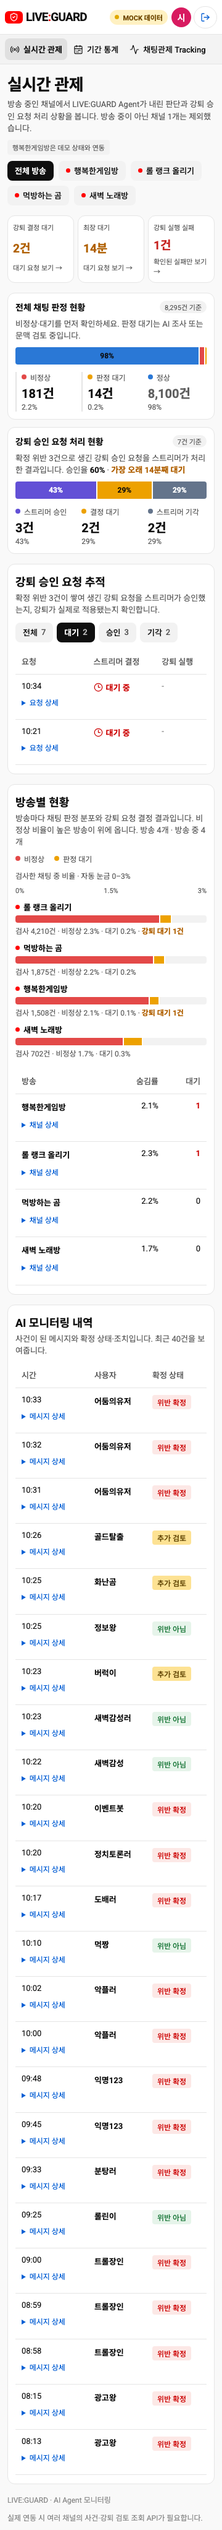
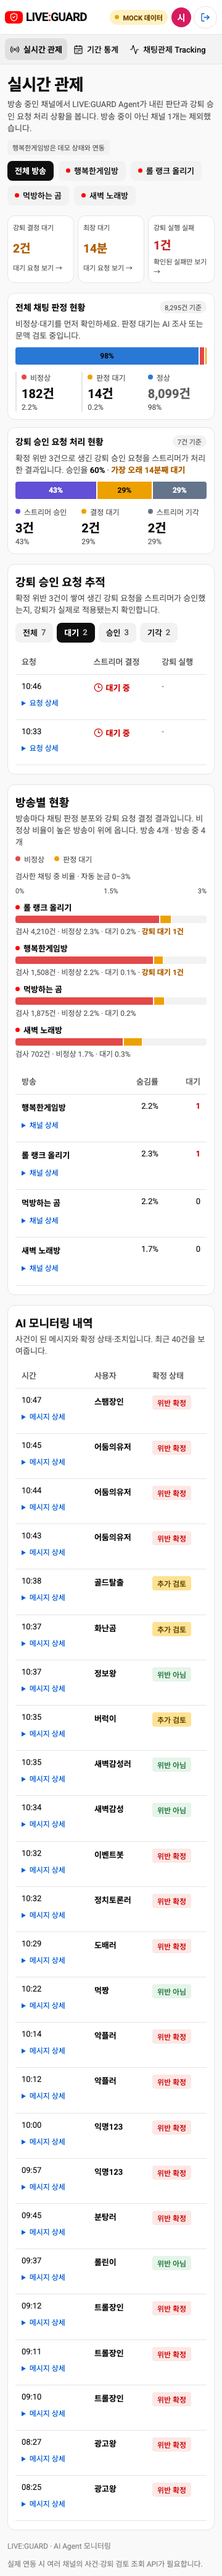
PR 검토용 변경 배경·구현 보고서와 UI 캡처 11장 보강

diff --git a/docs/dashboard-review.md b/docs/dashboard-review.md
@@ -1,17 +1,49 @@
-# 대시보드 UI·성능 개선 (#43–#46)
+# 관제 대시보드 UI·성능 개선 보고서 (#43–#46)
 
-## 변경
+## 배경과 목적
 
-- #43: SSE 이벤트를 80ms 단위로 모으고, 진행 중 조회가 있으면 후속 조회로 합친다. CHAT은 메시지만 조회하고 TOOL_START/TOOL_END는 이벤트 로그만 갱신한다. 메시지 비공개 전환은 조회 전에 즉시 반영하며 세션·방송 변경 시 오래된 응답을 무시한다.
-- #44: 실시간 관제 상단에 강퇴 결정 대기·최장 대기·확인된 강퇴 실행 실패를 표시한다. 클릭하면 요청 표로 초점을 이동하고 필터를 적용한다. 비정상·판정 대기 수치는 정상보다 앞에 표시한다. API 미연동 상태에서는 숫자 대신 대시와 연동 안내를 표시한다.
-- #45: 기간 통계 설명을 줄이고 판정 정의는 펼침 도움말로 제공한다. 모바일 강퇴 요청 표는 시간·결정·실행을 우선 표시하고 나머지는 요청 상세에서 제공한다. 방송 목록도 추가 수치를 방송 상세에서 볼 수 있다. 실시간 방송별 표와 AI 내역 표도 핵심 열을 먼저 표시하고 채널·메시지 상세로 나머지를 제공한다.
-- #46: 방송별 막대에 0·중간·최댓값 눈금과 검사 건수를 추가한다. 선 그래프와 막대에는 자동 눈금임을 명시한다. 기간에 따라 눈금이 바뀌며 고정 눈금 옵션은 추가하지 않았다. 표 보기·키보드 툴팁·방송 없는 날 선 끊김은 유지한다.
+기존 시스템 운영자 화면은 채팅 판정 분포, 강퇴 승인 요청 표, 방송별 현황, AI 내역을 순서대로 보여줬다. 전체 상태를 보고하는 데는 적합했지만, 운영자가 지금 확인해야 할 요청을 찾으려면 여러 영역을 살펴야 했다. 정상 비율이 약 98%인 예시에서는 큰 파란 막대가 가장 먼저 보였고, 비정상·판정 대기 수치는 정상과 같은 강조 수준이었다.
 
-## 요청 수 비교
+별도로 실제 API 화면을 확인하면서, 채팅·관제 SSE 이벤트마다 메시지·검토·사건 전체를 재조회하는 구조를 발견했다. 이 부분은 **스트리머·시청자 API 연결을 담당하는 `LiveConsole.vue`**의 변경이다. 시스템 운영자 집계 API를 새로 구현한 작업은 아니다.
 
-같은 테스트 fixture에서 채팅 이벤트 20개를 전송하고, 첫 메시지 조회가 시작된 후 20개를 추가 전송했다. 메시지 응답은 180ms 지연시켰다. 그 뒤 TOOL_START/TOOL_END 각 20개를 전송했다.
+이번 변경은 아래 네 이슈에 대응한다. 기존 기간 통계 PR #42는 main에 머지된 상태이며, 이번 브랜치에도 최신 main을 합쳤다.
 
-| 관측 | 변경 전 HEAD | 변경 후 |
+| 이슈 | 문제 | 변경 후 사용자가 얻는 것 |
+| --- | --- | --- |
+| #43 | 연속 이벤트마다 중복 HTTP 조회 | 요청을 모아 처리하면서 최신 채팅과 상태를 표시 |
+| #44 | 대기·실패를 여러 표에서 찾아야 함 | 첫 화면 요약에서 관련 요청 목록으로 바로 이동 |
+| #45 | 모바일 설명 반복과 넓은 표 | 요약 정보를 먼저 읽고 필요한 행만 펼쳐 상세 확인 |
+| #46 | 비율의 표본 규모와 자동 눈금 변화가 덜 드러남 | 검사 건수와 눈금을 보고 비율·길이를 해석 |
+
+## 1. 실시간 조회: 무엇을 왜 어떻게 바꿨는가
+
+### 변경 전
+
+`LiveConsole.vue`의 이벤트 핸들러가 `refresh()`를 호출했다. 운영자 기준 refresh 한 번에 세션 확인 1회, 메시지 1회, 문맥 검토 1회, 강퇴 검토 1회, 사건 1회로 기본 5개 요청이 발생했다. `TOOL_START`와 `TOOL_END`도 같은 목록 조회를 수행했다.
+
+이전 응답을 무시하는 순번 검사는 있었지만, 이미 시작한 요청 수를 줄여 주지는 않았다. 연속 이벤트가 오면 사용하지 않을 응답까지 서버와 브라우저가 처리해야 했다.
+
+### 변경 후
+
+- 이벤트는 80ms 동안 모아 조회한다. 80ms는 짧은 연속 이벤트를 합치기 위한 대기 시간이며 실측으로 도출한 최적값은 아니다.
+- 진행 중 조회는 하나만 유지한다. 그동안 추가된 갱신 요구는 메시지·관제 플래그로 합쳐 현재 조회가 끝나면 후속 조회한다. 이벤트 하나마다 후속 요청을 따로 예약하지 않는다.
+- `CHAT`은 세션 확인과 메시지 조회만 수행한다. 검토·사건은 채팅 이벤트 때문에 다시 읽지 않는다.
+- `TOOL_START`·`TOOL_END`는 받은 이벤트를 로그에 기록하고 목록 API를 호출하지 않는다.
+- 그 밖의 상태 변경 이벤트는 기존과 같이 필요한 전체 상태를 확인한다.
+
+```text
+변경 전: 이벤트마다 세션 → 메시지 + 문맥 검토 + 강퇴 검토 + 사건
+변경 후: 이벤트 묶음 → 진행 중 조회 확인 → 필요한 목록만 조회
+                               └ 진행 중이면 다음 조회에 요구를 합침
+```
+
+숨김 메시지의 즉시 제거는 80ms 묶음 처리를 기다리지 않는다. 세션·방송 변경 시 오래된 응답을 무시하는 검사, 강퇴·방송 종료 처리, 주기적인 5초 복구 조회도 유지한다. 사용자 변경을 감지한 후 재로딩을 기다리는 경로는 조회 큐와 서로 기다리지 않도록 조정했다. 이미 전송한 HTTP 요청을 취소하는 방식은 아니다.
+
+### 요청 수 비교와 해석
+
+같은 브라우저 테스트 fixture에서 채팅 이벤트 20개를 보낸 후 첫 메시지 조회가 시작되면 20개를 추가했다. 메시지 응답에는 180ms 지연을 넣었다. 이어 `TOOL_START`·`TOOL_END` 각각 20개를 보냈다. 변경 전 기준은 구현 시작 시점 커밋 `fd7ba65`의 `LiveConsole.vue`이며 임시 복사본에서 실행했다.
+
+| 관측한 요청 | 변경 전 | 변경 후 |
 | --- | ---: | ---: |
 | 채팅 구간 메시지 조회 | 41 | 2 |
 | 채팅 구간 검토 조회 | 82 | 0 |
@@ -20,16 +52,83 @@
 | 채팅 구간 현재 방송 조회 | 1 | 0 |
 | 도구 이벤트 구간 추가 API 요청 | 200 | 0 |
 
-변경 전 실행은 더 오래 걸려 채팅 구간에 5초 주기 재조회도 포함됐다. 이벤트당 요청 수를 정확히 분리한 결과나 운영 환경의 처리량·지연 시간 측정은 아니다. 변경 후에도 세션 확인과 5초 주기 복구 조회는 유지한다. 연속 이벤트 테스트는 최신 메시지 표시와 메시지 조회 최대 2회, 검토·사건 재조회 0회 및 도구 이벤트 추가 조회 0회를 검사한다.
+변경 전 실행이 더 오래 걸려 채팅 구간에 5초 주기 조회도 포함됐다. 따라서 두 열은 동일한 시간 길이의 부하 측정이 아니며, 이 수치를 사용자 응답 속도의 개선율로 환산하면 안 된다. 운영 환경 처리량, FPS, p95 지연 시간을 측정한 결과도 아니다. 자동 회귀 테스트는 최신 메시지가 최종 표시되는지와 메시지 조회 최대 2회, 채팅에 따른 검토·사건 조회 0회, 도구 이벤트 추가 조회 0회를 검사한다.
 
-## 검증
+## 2. 위험 정보: 분포를 읽기 전에 확인할 일부터 찾게 변경
 
-- `VITE_USE_API=true npm run build`, `VITE_USE_API=false npm run build`: 각각 타입 검사·프로덕션 빌드 통과.
-- `npm run test:chat`: 기존 56개 + 새 2개, 총 58개 통과.
-- 화면 저장 옵션을 켠 전체 실행에서는 목업 초기 로그인 버튼 대기 타임아웃 1건이 있었다. 표준 전체 재실행은 58개 통과했고, 최종 UI 화면 저장은 새 관리자 UI 테스트만 분리 실행해 통과했다.
-- 새 UI 테스트는 위험 요약 필터, 표로의 초점 이동, API 미연동 안내, 360·390px 가로 넘침, 모바일 상세, 키보드 툴팁, 눈금·검사 건수 표시를 확인한다.
-- 화면 증거: `docs/evidence/dashboard-review/review-admin-*.png`.
+상단에 강퇴 결정 대기, 최장 대기, **확인된 강퇴 실행 실패** 세 카드를 추가했다. 선택한 방송 필터에 해당하는 데이터로 계산한다.
 
-## 범위
+| 조작 | 결과 | 이유 |
+| --- | --- | --- |
+| 강퇴 결정 대기 클릭 | 강퇴 요청 표로 이동, 대기 상태 필터 적용 | 숫자를 확인한 뒤 요청을 다시 찾는 동선을 줄임 |
+| 최장 대기 클릭 | 같은 대기 요청 목록으로 이동 | 오래 기다린 요청이 있음을 드러냄 |
+| 실행 실패 클릭 | 확인된 실패만 표시, 필터 안내와 해제 버튼 제공 | 승인과 실제 실행 결과를 구분해 확인 |
 
-시스템 운영자 집계 API는 여전히 후속 연동 대상이다. 위험 요약의 실제 데이터도 API 연결 후 제공된다. 화면 지연 로딩·로그인 배경 영상 최적화는 이번 네 이슈 범위에 포함하지 않았다.
+목록 이동 시 표 영역으로 키보드 초점도 옮긴다. 결과 미확인은 확인된 실패 집계에 포함하지 않는다. API 미연동 모드에서는 세 카드에 0건 대신 `—`·`연동 API 없음`을 표시하고 클릭을 비활성화한다.
+
+채팅 판정 범례는 비정상·판정 대기 수치를 먼저 보이도록 배치하고 정상 수치의 강조를 낮췄다. 분포 막대의 정상·비정상·대기 색과 모수는 바꾸지 않았다. 기간 통계에도 같은 공용 범례 스타일이 적용된다.
+
+## 3. 모바일: 핵심 열을 먼저 표시하고 나머지는 상세로 제공
+
+기간 통계의 긴 도입 문장을 줄이고, 채팅 판정 정의는 `판정 기준` 도움말을 펼쳐 확인하도록 했다. 데이터 자체를 없애지 않고 설명과 상세 정보의 노출 순서를 바꿨다.
+
+| 모바일 표 | 먼저 보여 주는 열 | 펼쳐 볼 수 있는 정보 |
+| --- | --- | --- |
+| 강퇴 요청 | 시간·스트리머 결정·실행 상태 | 방송·사용자·사유·기준 사건·대기/결정 소요 시간 |
+| 실시간 방송별 현황 | 방송·숨김률·강퇴 대기 | 스트리머·시청자 수·검사/숨김/판정 대기·강퇴 요청과 결정 수치 |
+| AI 내역 | 시간·사용자·확정 상태 | 방송·메시지 원문·유형·조치 |
+| 기간 방송 목록 | 방송·시작·상태 | 검사/비정상/판정 대기·강퇴 승인/기각/대기 수치 |
+
+상세는 기본 HTML `details/summary`를 사용해 터치와 키보드로 연다. 긴 문자열은 상세 영역에서 줄바꿈한다. 데스크톱은 기존 상세 열을 계속 보여 준다. 360px·390px에서 문서 전체의 가로 넘침과 상세 열기를 검사했다.
+
+## 4. 차트: 길이와 비율을 해석할 단서를 추가
+
+방송별 비율 막대에는 0·중간·최댓값 눈금을 추가하고, 각 방송의 검사 건수를 비율 옆에 표시했다. 작은 표본의 높은 비율과 큰 표본의 낮은 비율을 구분하는 데 필요한 정보다. 선 그래프에는 `세로축 자동 눈금`과 기간에 따라 달라진다는 안내를 붙였다.
+
+자동 눈금은 계속 사용한다. 한 화면 안 방송들은 같은 눈금으로 비교하지만, 기간을 전환하면 눈금이 달라질 수 있다. 서로 다른 기간의 차트를 길이만으로 직접 비교하지 않도록 값과 눈금을 함께 제공하는 선택이다. 고정 눈금 전환 기능은 이번에 추가하지 않았다.
+
+날짜별 표 보기, 방송이 없던 날 선 끊김, 키보드 방향키 툴팁, 라벨·건수·비율 표시는 유지한다.
+
+## 5. 화면 증거
+
+모든 화면은 로컬 테스트 fixture의 예시 데이터다. 실제 운영 지표가 아니다. 테스트 시점에 따라 시간·목업 건수는 달라질 수 있다.
+
+| 화면 | 캡처 |
+| --- | --- |
+| 실시간 관제 요약과 대기 필터 | [데스크톱](evidence/dashboard-review/review-admin-attention-desktop.png) |
+| 확인된 실행 실패 필터 | [데스크톱](evidence/dashboard-review/review-admin-failed-desktop.png) |
+| 실시간 관제 모바일 | [360px](evidence/dashboard-review/review-admin-live-360.png), [390px](evidence/dashboard-review/review-admin-live-390.png) |
+| 요청 상세 펼침 | [390px](evidence/dashboard-review/review-admin-request-detail-390.png) |
+| 채널 상세 펼침 | [390px](evidence/dashboard-review/review-admin-channel-stats-table-detail-390.png) |
+| 메시지 상세 펼침 | [390px](evidence/dashboard-review/review-admin-monitor-log-table-detail-390.png) |
+| 기간 통계 | [데스크톱](evidence/dashboard-review/review-admin-period-desktop.png), [360px](evidence/dashboard-review/review-admin-period-360.png), [390px](evidence/dashboard-review/review-admin-period-390.png) |
+| API 미연동 상태 | [데스크톱](evidence/dashboard-review/review-admin-api-empty-desktop.png) |
+
+이전 기간 통계 화면은 [기존 데스크톱](evidence/period-stats/01-mock-7days-desktop.png), [기존 모바일](evidence/period-stats/03-mock-7days-phone.png)과 비교할 수 있다. 서로 다른 시점의 예시이므로 수치 차이를 성능이나 판정 정확도의 변화로 해석하지 않는다.
+
+## 6. 검증과 재현
+
+```bash
+VITE_USE_API=true npm run build
+VITE_USE_API=false npm run build
+npm run test:chat
+CHAT_EVIDENCE_DIR=docs/evidence/dashboard-review node --test --test-name-pattern='admin attention' tests/live-chat.test.cjs
+```
+
+- Mock/API 모드 각각 타입 검사와 프로덕션 빌드를 확인한다.
+- 전체 테스트는 기존 56개와 새 2개로 구성된다. 새 테스트는 연속 이벤트 요청 수와 최신 메시지 반영, 위험 요약 필터, 초점 이동, API 빈 상태, 모바일 상세, 360·390px 가로 넘침, 눈금·검사 건수, 키보드 툴팁을 확인한다.
+- 앞선 전체 실행에서 기존 목업 초기 로그인 버튼 대기 타임아웃이 1회 있었다. 이후 표준 전체 실행은 58개 통과했고 최종 화면 저장은 관리자 UI 테스트를 분리 실행한다. 타이머 판정 실패로 확인된 것은 아니다.
+- 최신 main 병합 후 검증 결과는 PR 본문에 기록한다.
+
+## 검토할 파일과 한계
+
+| 파일 | 검토 초점 |
+| --- | --- |
+| `src/LiveConsole.vue` | 조회 병합·메시지 전용 조회·도구 로그 처리·세션 변경 시 재로딩 |
+| `src/SystemPage.vue` | 요약 집계·필터 이동·API 빈 상태·모바일 상세 |
+| `src/PeriodStats.vue` | 설명 축약·판정 도움말·방송 상세 |
+| `src/StackedBar.vue`, `src/RateBars.vue`, `src/TrendLine.vue` | 비정상/대기 강조·표본 수·눈금 안내 |
+| `src/style.css` | 데스크톱 배치와 590/900px 반응형 전환 |
+| `tests/live-chat.test.cjs` | 새 회귀 테스트와 캡처 재현 |
+
+관리자 집계 API의 실제 연동은 #33 등 후속 작업이다. 이 PR의 관리자 요약도 현재는 목업으로 동작하며 API 모드는 빈 상태다. 백엔드 계약·제재 정책·판정 정확도를 바꾸는 작업은 아니다. 화면 지연 로딩과 로그인 배경 영상 최적화는 이번 네 이슈 범위에 포함하지 않았다.
